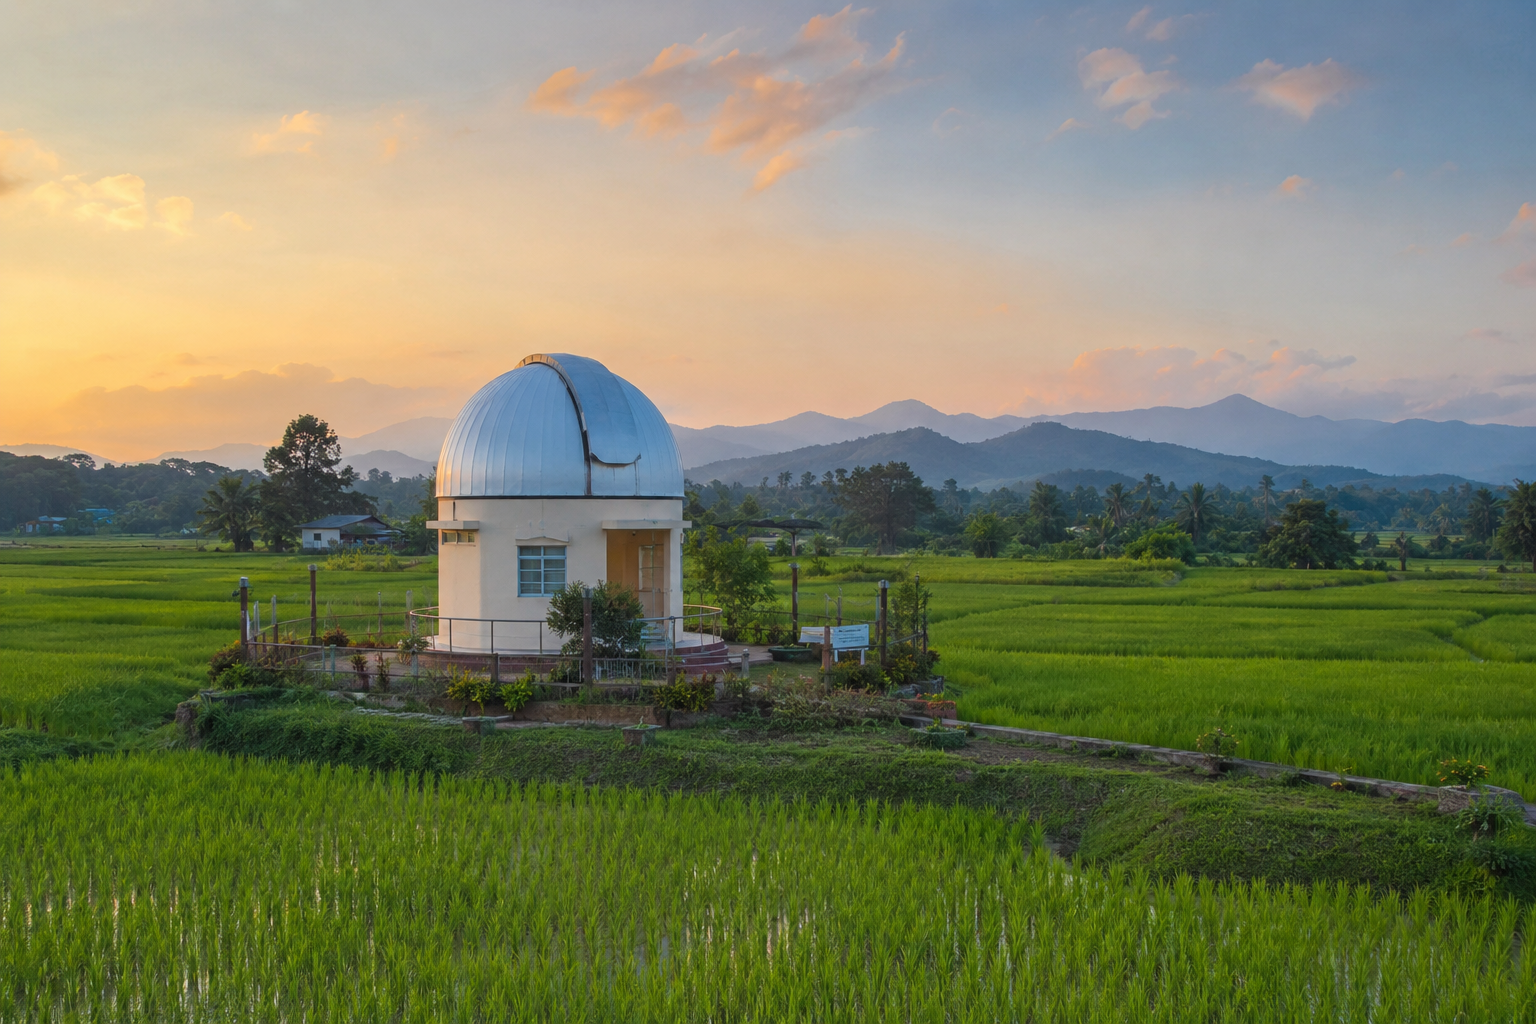
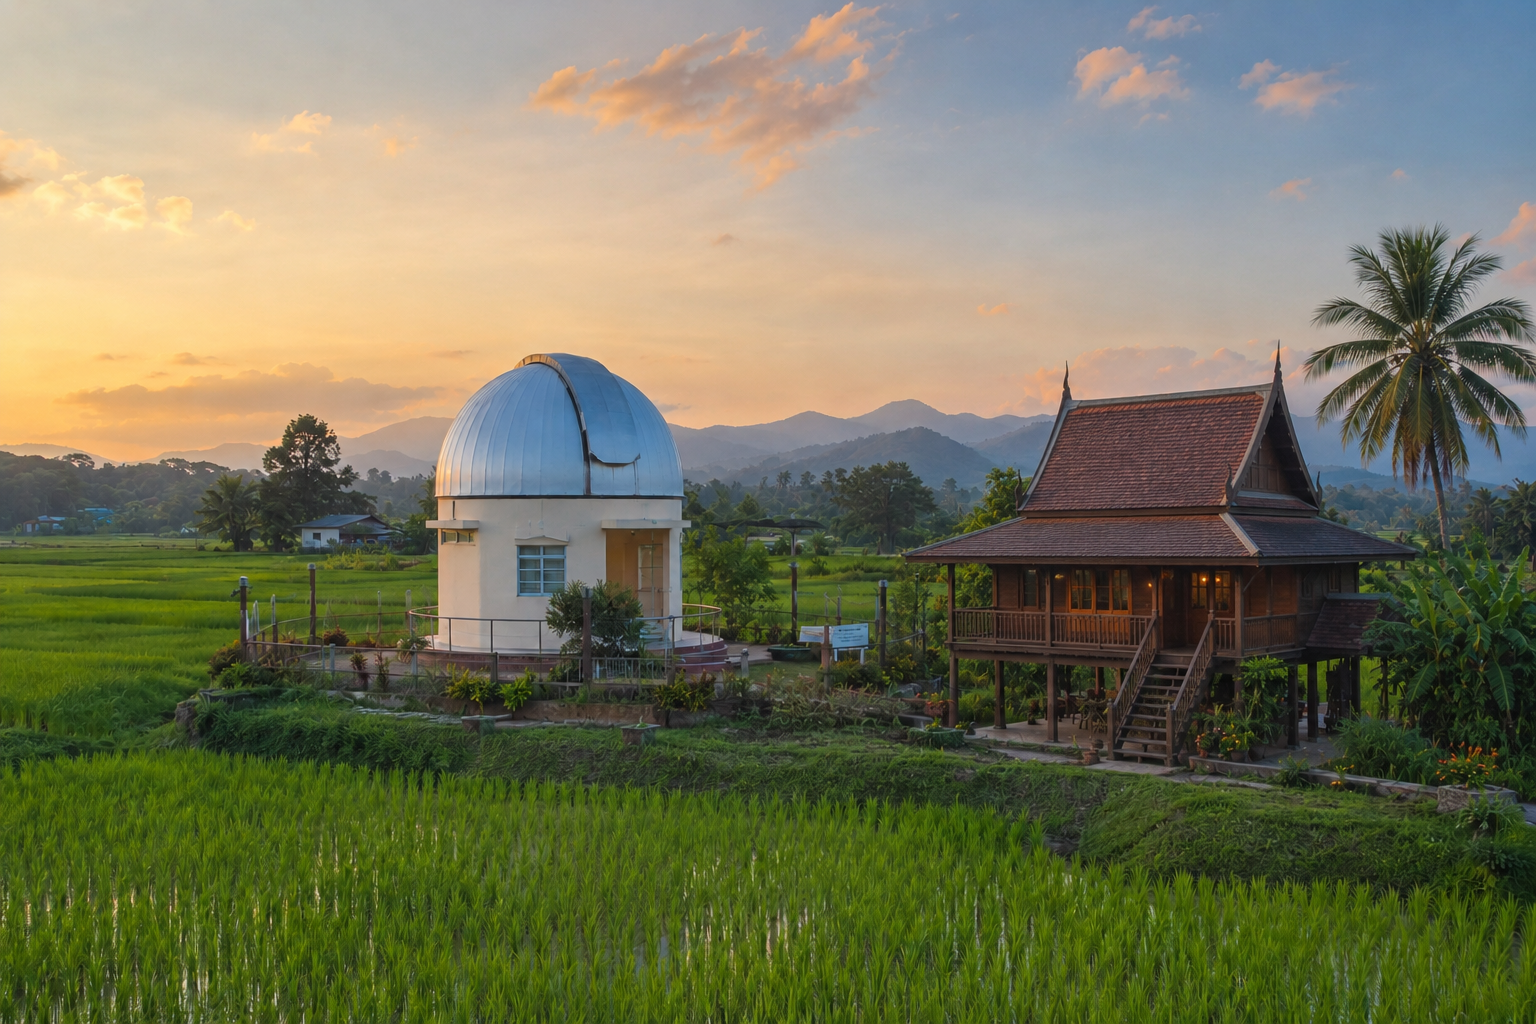
Observatory with thai house

diff --git a/README.md b/README.md
@@ -2,7 +2,7 @@
 ## Remote Telescope Nong Pok Yai
 
 ![](assets/RTNPY_Observatory.png)  
-Image AI generated
+
 
 ---
 